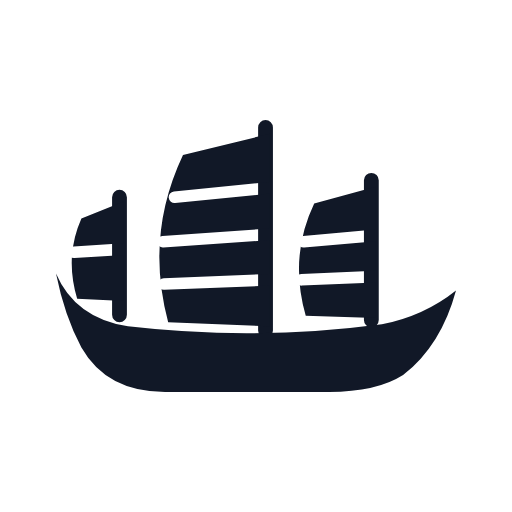
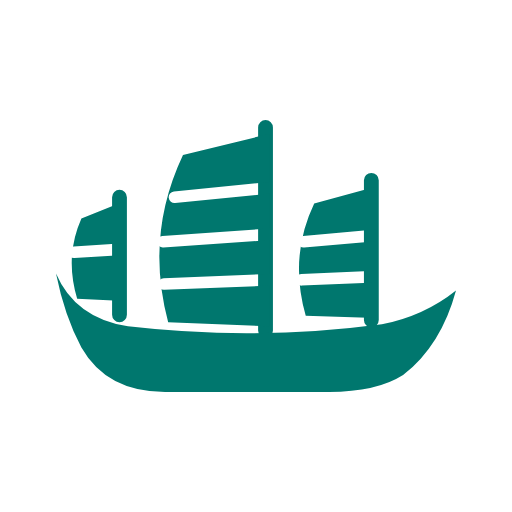
El ícono de la app va en el verde oscuro de ICLAC
El junco de la barra sigue negro; el color del ícono vive solo en scripts/iconos.mjs.

Changed region(s): [[0.0938, 0.2188, 0.9062, 0.7812]]

diff --git a/.claude/CLAUDE.md b/.claude/CLAUDE.md
@@ -51,7 +51,7 @@ quién llama a qué, el MCP `code-review-graph` (`.mcp.json`); su índice local 
 | `scripts/lib/contraste.mjs`, `contrastes.mjs` | Permutación y bootstrap; qué comparaciones se publican y sus familias de Holm (`FAMILIAS`; skill `afirmaciones`) |
 | `scripts/etl.mjs` | ETL viejo por oleada sobre `data_csv.csv`; lo usan las pruebas de la microdata publicada |
 | `scripts/geometria_regiones.mjs` | SVG de simplemaps (`data/sources/geo/`) → `public/data/chile-regiones.json`; corre dentro de `npm run datos` |
-| `scripts/iconos.mjs` | `junco.ts` → ícono de la pestaña (`favicon.svg`, claro en tema oscuro), PNG de iOS y del manifiesto, y `manifest.webmanifest`, en `public/`; `npm run iconos` (Playwright) |
+| `scripts/iconos.mjs` | `junco.ts` → ícono en `brand-dark` de la pestaña (`favicon.svg`), PNG de iOS y del manifiesto, y `manifest.webmanifest`, en `public/`; `npm run iconos` (Playwright) |
 | `scripts/mirar_recorrido.mjs` | Recorre cada historia (o la pedida) con Playwright y mide costo de paso, escenas y leyendas a la vista |
 | `scripts/mirar_explorador.mjs` | Recorre cada pregunta del explorador en sus tres estados y anchos; mide desbordes, títulos, valores cortados y consola |
 | `scripts/laboratorio.mjs`, `laboratorio/` | Laboratorios de composición (skill `laboratorio`) |
